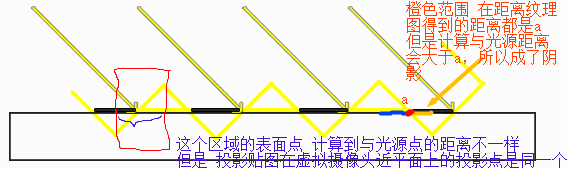
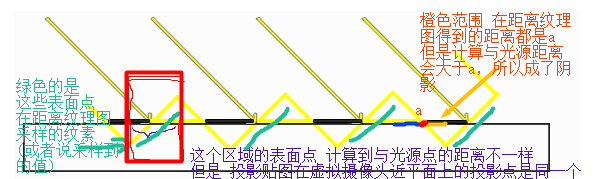
深度纹理 1.0是最深 白色 0~1.0范围  R16F浮点纹理 范围可以超过1.0 例子中大部分在20~100之间 距离纹理 使用近平面，纹理，视口 都是正方形

diff --git a/SampleB_5_3_V1_阴影映射/app/src/main/java/com/bn/Sample5_3_V1/MySurfaceView.java b/SampleB_5_3_V1_阴影映射/app/src/main/java/com/bn/Sample5_3_V1/MySurfaceView.java
@@ -85,23 +85,36 @@ class MySurfaceView extends GLSurfaceView
         }
 				
         // 通过绘制产生距离纹理
-        public void generateShadowImage() 
+        private void generateShadowImage()
         {
+            // 摄像机的位置(点光源) 和 透视投影的视椎体 构成了投影的范围
+
         	// 设置视口
-        	GLES30.glViewport(0, 0, SHADOW_TEX_WIDTH, SHADOW_TEX_HEIGHT); // 控制点光源的影响范围
+            //      这个跟透视投影的视椎体一样比例
+            //      正方形的距离纹理 和  视口和近平面都是正方形
+        	GLES30.glViewport(0, 0, SHADOW_TEX_WIDTH, SHADOW_TEX_HEIGHT);
+
         	// 绑定帧缓冲
-        	GLES30.glBindFramebuffer(GLES30.GL_FRAMEBUFFER, frameBufferId); 
-        	// 清除深度缓冲与颜色缓冲
+        	GLES30.glBindFramebuffer(GLES30.GL_FRAMEBUFFER, frameBufferId);
             GLES30.glClear( GLES30.GL_DEPTH_BUFFER_BIT | GLES30.GL_COLOR_BUFFER_BIT);
 
-            // 点光源 没有方向 光源摄像机  始终目标坐标始终是原点  位置跟随点光源 在一个XOZ平面上旋转 y一定
-            // 设置摄像机
+            // 设置摄像机/光源摄像机
+            // 点光源,这里有点像聚光灯(因为是透视投影,视椎体就相当于聚光灯)
+            //       LookAt: 始终目标坐标始终是原点
+            //       Pos  :  位置跟随点光源  在一个XOZ平面上旋转 y一定
             MatrixState.setCamera(mLightPosX, mLightPosY, mLightPosZ,0f,0f,0f,0f,1,0);
+
             // 设置透视矩阵
-            MatrixState.setProjectFrustum(-1, 1, -1.0f, 1.0f, 1.5f, 400); 
+            //      近平面时一个正方形
+            //      距离是1.5f ~ 400f
+            MatrixState.setProjectFrustum(-1, 1, -1.0f, 1.0f, 1.5f, 400);
+
+
             // 获取摄像机投影组合矩阵
             mMVPMatrixGY=MatrixState.getViewProjMatrix();
-            
+
+
+
             //绘制最下面的平面
             lovo_pm.drawSelfForShadow();  
             

diff --git a/SampleB_5_3_V1_阴影映射/app/src/main/java/com/bn/Sample5_3_V1/Constant.java b/SampleB_5_3_V1_阴影映射/app/src/main/java/com/bn/Sample5_3_V1/Constant.java
@@ -10,6 +10,6 @@ public class Constant
     public static final float T_MAX = 1.0f;
 
 
-    public static final boolean USING_DEPTH_TEXTURE = true ;
+    public static final boolean USING_DEPTH_TEXTURE = false ;
 }  
     

diff --git a/SampleB_5_1_投影贴图/README.md b/SampleB_5_1_投影贴图/README.md
@@ -115,11 +115,13 @@
 
 ### 阴影映射图
 
-* 把光源作为虚拟摄像机，设置摄像机九参数矩阵，和，投影矩阵，near far 和 近平面的尺寸
+* 把光源作为虚拟摄像机，设置**摄像机九参数矩阵**，和，**投影矩阵**，near far 和 近平面的尺寸
 
-* ??? 虚拟摄像机，望向的地方和起始点 连线 应该 跟 真实摄像头，视线向量(望向的目标-位置) 相互垂直
+* 例子中 使用 正方形的距离纹理 和  视口和近平面都是正方形
 
-* shader中把距离写入 颜色纹理(内部格式是R16F  外部格式是GL_RED，每像素格式是GL_FLOAT)，FBO需要有深度附件(纹理图或者RBO渲染缓冲对象)，打开深度检测，这样写入颜色纹理的距离，就是最近光源的距离
+* **摄像机的位置(点光源)** 和 **透视投影的视椎体** 构成了 **投影的范围** 
+
+* shader中把距离写入 **颜色纹理(内部格式是R16F  外部格式是GL_RED，每像素格式是GL_FLOAT)**，FBO需要**有深度附件**(纹理图或者RBO渲染缓冲对象)，打开**深度检测**，这样**写入颜色纹理的距离，就是最近光源的距离**
 
   ```
   顶点着色器：
@@ -133,15 +135,15 @@
      
   ```
 
-* 需要接收投影的物体，必须在，光源的虚拟摄像机的，视椎体中（透视投影矩阵）
+* 需要接收投影的物体，必须在**光源的虚拟摄像机的视椎体**中（透视投影矩阵）
 
-* 当前距离 和 距离纹理图记录的距离 之间的差，引入一个修正值，超过这个距离才算是阴影，修正值不对会引入“自身阴影”问题 ( 阴影瑕疵（Shadow acne ）/阴影失真 )。可以用一个叫做阴影偏移（shadow bias）的技巧来解决这个问题
+* 当前距离 和 距离纹理图记录的距离 之间的差，引入一个修正值，超过这个距离才算是阴影，修正值不对会引入**“自身阴影”问题 ( 阴影瑕疵（Shadow acne ）/阴影失真 )**。可以用一个叫做阴影偏移（shadow bias）的技巧来解决这个问题
 
   https://learnopengl-cn.readthedocs.io/zh/latest/05%20Advanced%20Lighting/03%20Shadows/01%20Shadow%20Mapping/
 
   因为阴影贴图受限于解析度，在距离光源比较远的情况下，多个片元可能从深度贴图的同一个值中去采样。图片每个斜坡代表深度贴图一个单独的纹理像素。你可以看到，多个片元从同一个深度值进行采样。
 
-  ![1573140809244](1573140809244.png) 
+  ![1576598585466](阴影失真.png) 
 
 * 对于阴影的片元，仅用环境光着色；其他都用计算环境，散射，镜面等三个通道光照着色
 
@@ -167,20 +169,20 @@
 
   * [glTexImage2D 3.0]: https://www.khronos.org/registry/OpenGL-Refpages/es3.0/html/glTexImage2D.xhtml
 
-  *   绑定FBO附件的两个方法: 分别是把texture或者RBO作为framebuffer的附件
+  *   绑定FBO附件的两个方法: 分别是把**texture或者RBO**作为**framebuffer的附件**
 
     * glFramebufferTexture2D
       * 2.0  attachment 附件可以是 GL_COLOR_ATTACHMENT0, GL_DEPTH_ATTACHMENT, or GL_STENCIL_ATTACHMENT
-      * 3.0 attachment 附件可以是 GL_COLOR_ATTACHMENTi GL_DEPTH_ATTACHMENT GL_STENCIL_ATTACHMENT  GL_DEPTH_STENCIL_ATTACHMENT 
-        * 支持 多渲染目标(Multiple Render Targets)
-        * 支持 深度和模板共用一个纹理
+      * **3.0 attachment 附件**可以是 GL_COLOR_ATTACHMENTi GL_DEPTH_ATTACHMENT GL_STENCIL_ATTACHMENT  GL_DEPTH_STENCIL_ATTACHMENT 
+        * **支持 多渲染目标(Multiple Render Targets)**
+        * **支持 深度和模板共用一个纹理**
       * textarget  可以是 GL_TEXTURE_2D 或者 是 GL_TEXTURE_CUBE_MAP_? 2D纹理或者立方贴图
     *  glFramebufferRenderbuffer
 
   * 使用渲染到深度纹理
 
-    * 如果是2.0 glTextImage2D要是 GLES20.GL_DEPTH_COMPONENT，并且设备要支持GL_OES_depth_texture
-    * 采样方式必须是 GL_NEAREST （拉伸方式没有限制）
+    * 如果是2.0 glTextImage2D要是 GLES20.GL_DEPTH_COMPONENT，并且设备要支持**GL_OES_depth_texture**
+    * 采样方式必须是 **GL_NEAREST** （拉伸方式没有限制）
 
     ![1576516529287](RendertoDepthTexture.png)
 
@@ -198,6 +200,9 @@
       
 
 * GLES 浮点纹理
+
+  * 使用**浮点纹理GL_R16F**，可视化时候shader拿到的数据不是0~1.0，例子中**大部分距离再20~100.0之间**
+
   * **GL_R16F** is not color-renderable in standard ES 3.0 
 
   * table 3.13 on pages 130-132 lists all texture formats and their properties. R16F does not have the checkmark in the "Color-renderable" column, which means that it **can not be used as a render target.** 
@@ -246,3 +251,25 @@
     ![img](half与half2) 
 
   
+
+* 深度范围0~1  **1是最深**
+
+  * https://www.khronos.org/registry/OpenGL-Refpages/es3.0/html/glClearDepthf.xhtml
+
+    ```
+    glClearDepthf(GLfloat depth);
+    The initial value is 1.
+    clamped to the range [0,1]
+    ```
+
+  * 深度纹理可视化
+
+    * 例子中 depthValue  没有<0也没有>1 大部分在0.95~1.0 整个场景都距离光源比较远的位置
+
+    * **越是白色，就越靠近1，深度越深，距离越远**
+
+    * 通过pow(depthValue,4) 4次方 **增强在0.5~1.0部分的对比度**
+
+      ![1576600108509](深度纹理可视化.png) 
+
+      
